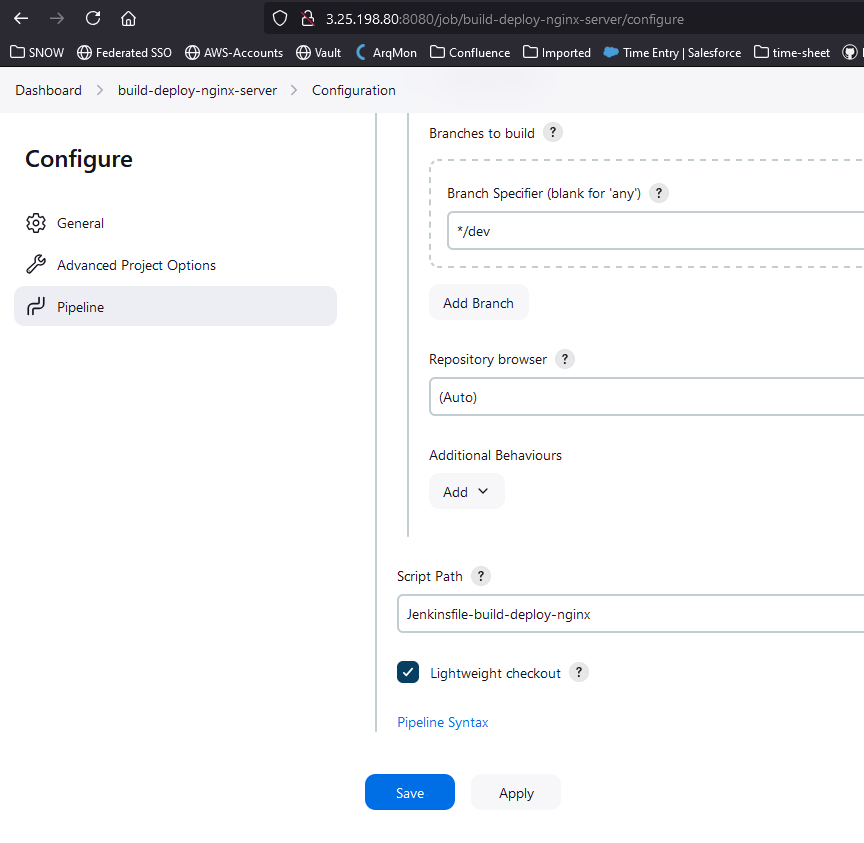
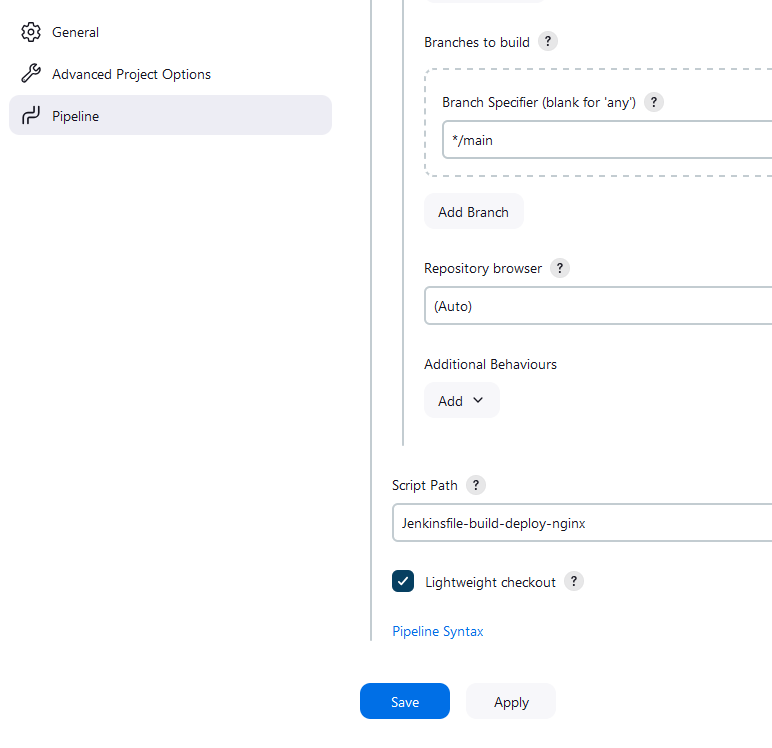
update readme

diff --git a/README.md b/README.md
@@ -143,7 +143,6 @@ To deploy the EKS cluster, follow these steps:
    ![alt text](images/image-25.png)
 
 3. Select your branch "main" and write "Jenkinsfile" in the script path field. Click save.
-   ![alt text](images/image-12.png)
 
 4. Before clicking "Build Now", install the AnsiColor plugin on your Jenkins server. Go to Manage Jenkins -> Plugins -> Available plugins -> Search for AnsiColor and Docker -> select Ansicolor, Docker and Docker Pipeline (Required for the enxt pipeline)-> Click Install.
    ![alt text](images/image-13.png)
@@ -168,7 +167,7 @@ To deploy Nginx web server using Dockerfile and K8 Deployment and Service, follo
 2. Scroll to the bottom of the page and under Pipeline, select "Pipeline script from SCM". Choose "Git" and provide your GitHub Repository URL. Select the credentials defined earlier.
    ![alt text](images/image-25.png)
 
-3. Select your branch and write "Jenkinsfile-build-deploy-nginx" in the script path field. Click save.
+3. Select the 'main' branch and write "Jenkinsfile-build-deploy-nginx" in the script path field. Click save.
    ![alt text](images/image-17.png)
 
 4. Run the Jenkins job to deploy the Nginx web page. Click on "Build Now".
